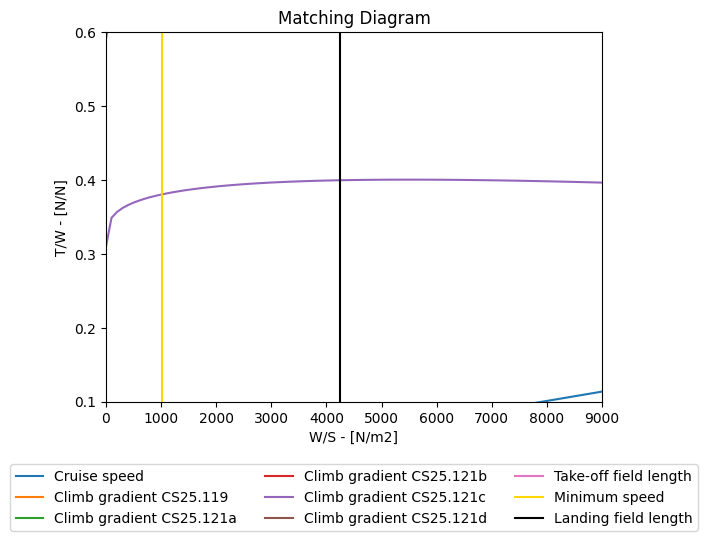
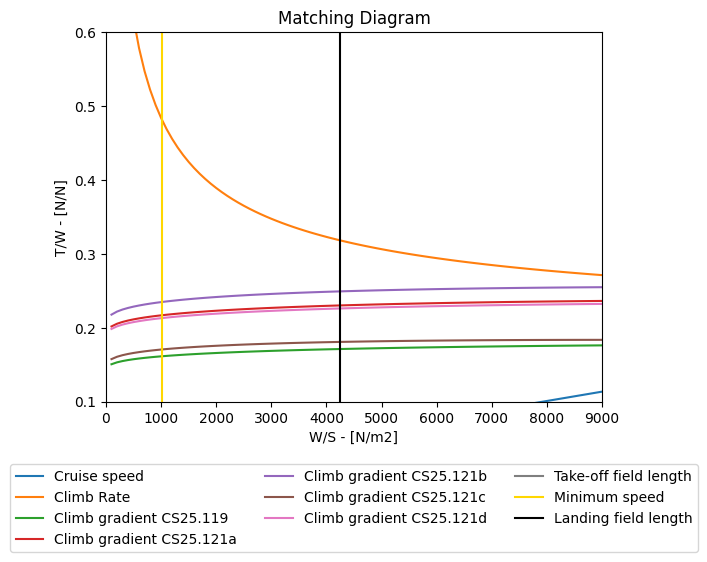
fixed gradient

diff --git a/main.py b/main.py
@@ -39,10 +39,10 @@ loads_landing_field_length = lfl.landing_field_length(fv.mass_fraction_landing, 
 loads_cruise_speed = cs.cruise_speed(fv.beta,fv.thrust_lapse,fv.wing_loading_cs,fv.C_d0, 1.225, fv.v_cr, fv.AR, fv.e_f)
 loads_climb_rate = cr.climb_rate(fv.wing_loading)
 loads_climb_grad_119 = cg.climb_grad(fv.wing_loading, fv.mass_fraction_119, fv.cg_119, fv.C_d0_119, fv.e_119, fv.AR, 1.225, fv.C_l_at_max_climb_gradient_119, fv.B)
-loads_climb_grad_121a = cg.climb_grad(fv.wing_loading, fv.mass_fraction_121a, fv.cg_121a,fv.C_d0_121a, fv.e_121a, fv.AR, 1.225, fv.C_l_at_max_climb_gradient_121a, fv.B)
-loads_climb_grad_121b = cg.climb_grad(fv.wing_loading, fv.mass_fraction_121b, fv.cg_121b, fv.C_d0_121b, fv.e_121b, fv.AR, 1.225, fv.C_l_at_max_climb_gradient_121b, fv.B)
-loads_climb_grad_121c = cg.climb_grad(fv.wing_loading, fv.mass_fraction_121c, fv.cg_121c, fv.C_d0_121c, fv.e_121c, fv.AR, 1.225, fv.C_l_at_max_climb_gradient_121c, fv.B)
-loads_climb_grad_121d = cg.climb_grad(fv.wing_loading, fv.mass_fraction_121d, fv.cg_121d, fv.C_d0_121d, fv.e_121d, fv.AR, 1.225, fv.C_l_at_max_climb_gradient_121d, fv.B)
+loads_climb_grad_121a = 2*cg.climb_grad(fv.wing_loading, fv.mass_fraction_121a, fv.cg_121a,fv.C_d0_121a, fv.e_121a, fv.AR, 1.225, fv.C_l_at_max_climb_gradient_121a, fv.B)
+loads_climb_grad_121b = 2*cg.climb_grad(fv.wing_loading, fv.mass_fraction_121b, fv.cg_121b, fv.C_d0_121b, fv.e_121b, fv.AR, 1.225, fv.C_l_at_max_climb_gradient_121b, fv.B)
+loads_climb_grad_121c = 2*cg.climb_grad(fv.wing_loading, fv.mass_fraction_121c, fv.cg_121c, fv.C_d0_121c, fv.e_121c, fv.AR, 1.225, fv.C_l_at_max_climb_gradient_121c, fv.B)
+loads_climb_grad_121d = 2*cg.climb_grad(fv.wing_loading, fv.mass_fraction_121d, fv.cg_121d, fv.C_d0_121d, fv.e_121d, fv.AR, 1.225, fv.C_l_at_max_climb_gradient_121d, fv.B)
 V2 = td.find_V_2(fv.wing_loading, fv.density_takeoff, fv.CL_takeoff)
 Mach = td.find_Mach(V2, fv.temp_takeoff)
 theta, delta = td.find_theta_delta(fv.temp_takeoff, Mach)
@@ -73,6 +73,7 @@ plotname = f"Matching_Diagram_iteration.png"
 
 fig, dx = plt.subplots()
 dx.plot(fv.wing_loading_cs, loads_cruise_speed, label="Cruise speed")
+dx.plot(fv.wing_loading, loads_climb_rate, label="Climb Rate")
 dx.plot(fv.wing_loading, loads_climb_grad_119, label="Climb gradient CS25.119")
 dx.plot(fv.wing_loading, loads_climb_grad_121a, label="Climb gradient CS25.121a")
 dx.plot(fv.wing_loading, loads_climb_grad_121b, label="Climb gradient CS25.121b")

diff --git a/fixed_values.py b/fixed_values.py
@@ -43,7 +43,7 @@ oswald_efficiency = 0.887
 
 #________Wing Loading______
 
-wing_loading = np.arange(0,9100,100)
+wing_loading = np.arange(100,9100,100)
 wing_loading_cs = np.arange(1200, 9100, 100)
 
 
@@ -63,23 +63,23 @@ cg_121b = 2.4
 cg_121c = 1.2
 cg_121d = 2.1
 
-C_d0_119 = 0.0707175
-C_d0_121a = 0.0447175
-C_d0_121b = 0.0347175
-C_d0_121c = 0.0087175
-C_d0_121d = 0.0607175
+C_d0_119 = 0.0824
+C_d0_121a = 0.0590
+C_d0_121b = 0.0390
+C_d0_121c = 0.0234
+C_d0_121d = 0.0624
 
-e_119 = 0.901657174
-e_121a = 0.849657174
-e_121b = 0.849657174
-e_121c = 0.797657174
-e_121d = 0.901657174
+e_119 = 0.9336
+e_121a = 0.8868
+e_121b = 0.8868
+e_121c = 0.8556
+e_121d = 0.9336
 
 mass_fraction_119 = 1
 mass_fraction_121a = 1
 mass_fraction_121b = 1
 mass_fraction_121c = 1
-mass_fraction_121d = 0.69
+mass_fraction_121d = 0.8
 
 C_l_at_max_climb_gradient_119 = m.sqrt(C_d0_119 * m.pi * AR * e_119)
 C_l_at_max_climb_gradient_121a = m.sqrt(C_d0_121a * m.pi * AR * e_121a)
@@ -87,8 +87,8 @@ C_l_at_max_climb_gradient_121b = m.sqrt(C_d0_121b * m.pi * AR * e_121b)
 C_l_at_max_climb_gradient_121c = m.sqrt(C_d0_121c * m.pi * AR * e_121c)
 C_l_at_max_climb_gradient_121d = m.sqrt(C_d0_121d * m.pi * AR * e_121d)
 
-C_d_at_max_climb_gradient_119 = 2 * C_l_at_max_climb_gradient_119 
-C_d_at_max_climb_gradient_121a = 2 * C_l_at_max_climb_gradient_121a
-C_d_at_max_climb_gradient_121b = 2 * C_l_at_max_climb_gradient_121b
-C_d_at_max_climb_gradient_121c = 2 * C_l_at_max_climb_gradient_121c
-C_d_at_max_climb_gradient_121d = 2 * C_l_at_max_climb_gradient_121d
+C_d_at_max_climb_gradient_119 = C_d0_119+C_l_at_max_climb_gradient_119**2/(e_119*AR*m.pi)
+C_d_at_max_climb_gradient_121a = C_d0_121a+C_l_at_max_climb_gradient_121a**2/(e_121a*AR*m.pi)
+C_d_at_max_climb_gradient_121b = C_d0_121b+C_l_at_max_climb_gradient_121b**2/(e_121b*AR*m.pi)
+C_d_at_max_climb_gradient_121c = C_d0_121c+C_l_at_max_climb_gradient_121c**2/(e_121c*AR*m.pi)
+C_d_at_max_climb_gradient_121d = C_d0_121d+C_l_at_max_climb_gradient_121d**2/(e_121d*AR*m.pi)

diff --git a/Matching_Diagram/climb_grad.py b/Matching_Diagram/climb_grad.py
@@ -6,14 +6,14 @@ import math as m
 def climb_grad(wing_loadings, mass_fraction, climb_gradient, cd_0, oswald_number, aspect_ratio, density, cl_max, B):
     
     t_over_w = np.array([])
-
+    print(cd_0)
     for wing_loading in wing_loadings:
-        velocity = m.sqrt(2*wing_loading/(density*cl_max))
-        mach = velocity/m.sqrt(287*1.4*288.15)
+        velocity = np.sqrt(2*wing_loading/(density*cl_max))
+        mach = velocity/np.sqrt(287*1.4*288.15)
         total_temps = 288.15*(1+0.4/2*mach**2)/288.15
         total_pressure = 101325*(1+0.4/2*mach**2)**3.5/101325
         laps_rate = total_pressure*(1-(0.43+0.014*B)*m.sqrt(mach))
-        tw = mass_fraction/laps_rate * (climb_gradient/100+(2*m.sqrt(cd_0/m.pi * aspect_ratio * oswald_number)))
+        tw = mass_fraction/laps_rate * (climb_gradient/100+(2*m.sqrt(cd_0/(m.pi * aspect_ratio * oswald_number))))
         t_over_w = np.append(t_over_w,tw)
     
 
